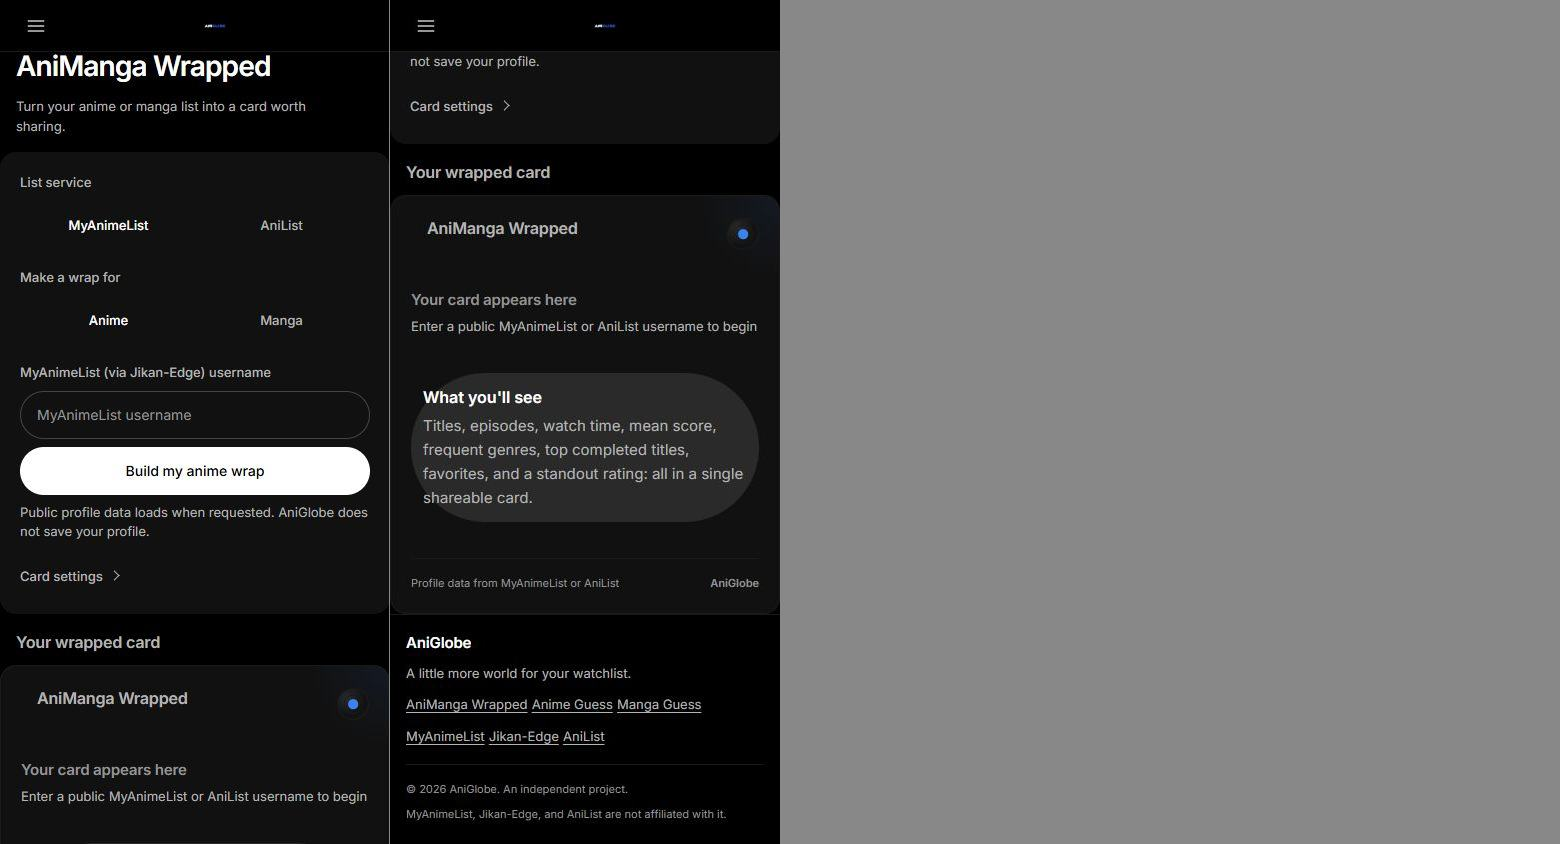
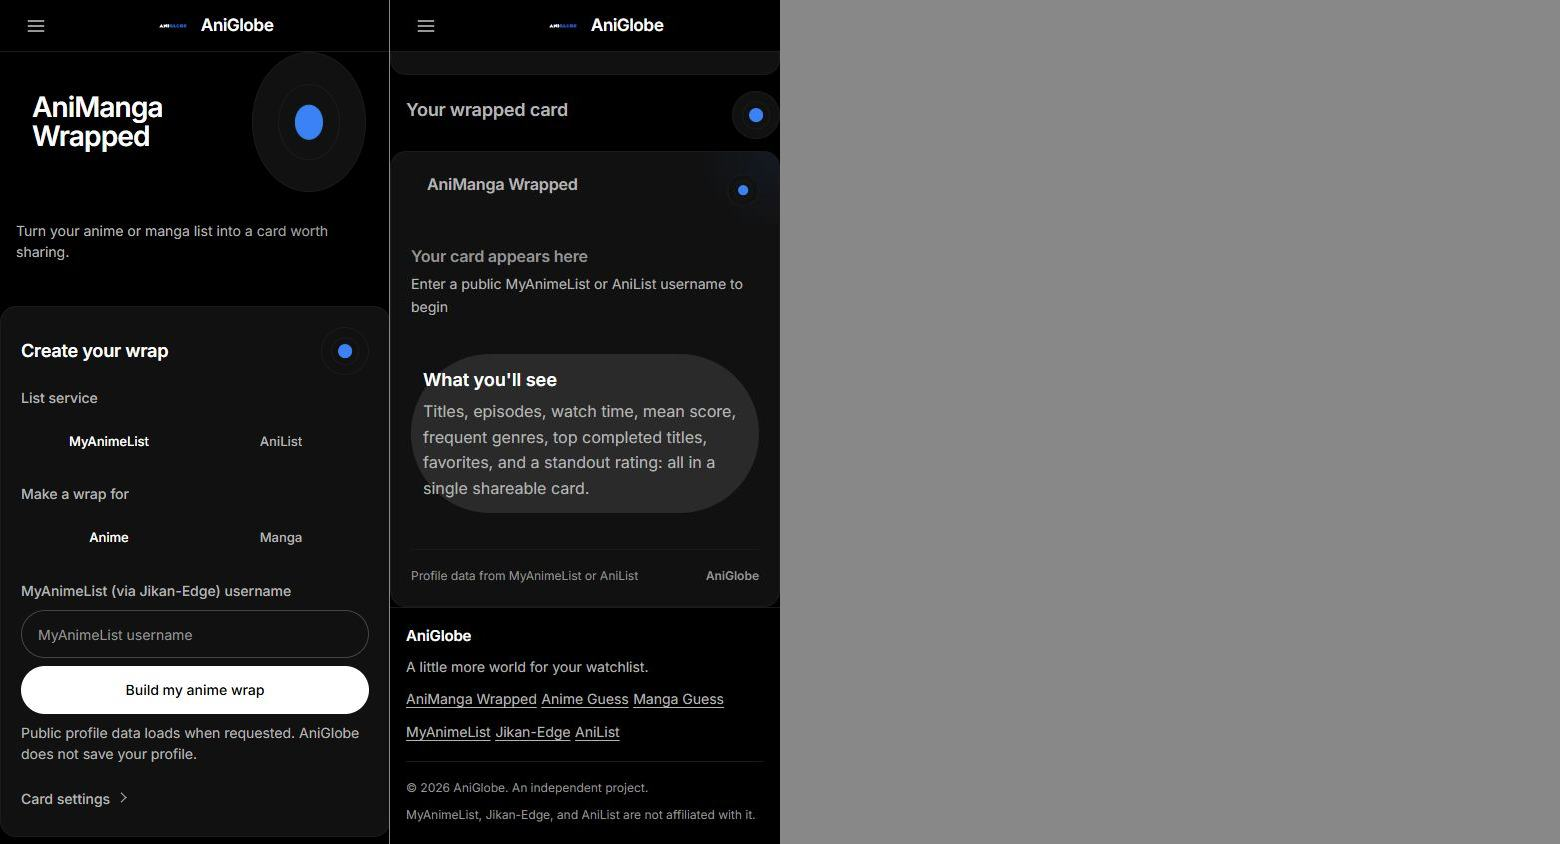
Add hero accent field, panel borders, globe stamp XL

diff --git a/src/tools/card.js b/src/tools/card.js
@@ -265,7 +265,8 @@ export default {
           { class: 'tool-head wrapped-heading', style: { marginBottom: 'var(--s6)' } },
           el('div', { class: 'flex items-center justify-between gap-3', style: { marginBottom: 'var(--s3)', paddingInline: 'var(--s4)' } }, [
             el('h1', { class: 'slide-in-left', style: { paddingLeft: 'var(--s2)' } }, 'AniManga Wrapped'),
-            heroStamp
+            heroStamp,
+            el('div', { class: 'hero-accent' })
           ]),
           el('p', { class: 'fade-in-up' }, 'Turn your anime or manga list into a card worth sharing.')
         ),
@@ -279,7 +280,10 @@ export default {
         el(
           'aside',
           { class: 'wrapped-preview fade-in-up', 'aria-labelledby': 'wrapped-preview-title', style: { animationDelay: '120ms' } },
-          el('h2', { id: 'wrapped-preview-title' }, 'Your wrapped card'),
+          el('div', { class: 'flex items-center justify-between gap-2', style: { marginBottom: 'var(--s3)' } },
+            el('h2', { id: 'wrapped-preview-title', class: 'slide-in-left', style: { fontSize: 'var(--fs-section)', fontWeight: 600, letterSpacing: '-0.01em' } }, 'Your wrapped card'),
+            globeStamp('md')
+          ),
           stage,
           actions
         )

diff --git a/assets/styles.css b/assets/styles.css
@@ -336,7 +336,8 @@ a { color: inherit; text-decoration: none; }
   border-radius: var(--radius-card);
   padding: var(--s5);
   min-width: 0;
-  border: none;
+  border: 1px solid var(--border);
+  position: relative;
 }
 
 .well {
@@ -1035,6 +1036,21 @@ input:focus-visible, select:focus-visible, textarea:focus-visible {
 .text-right { text-align: right; }
 .mt-1 { margin-top: var(--s1); } .mt-2 { margin-top: var(--s2); } .mt-3 { margin-top: var(--s3); } .mt-4 { margin-top: var(--s4); } .mt-5 { margin-top: var(--s5); }
 .mb-1 { margin-bottom: var(--s1); } .mb-2 { margin-bottom: var(--s2); } .mb-3 { margin-bottom: var(--s3); } .mb-4 { margin-bottom: var(--s4); } .mb-5 { margin-bottom: var(--s5); }
+
+/* Hero accent field — fills the void with flat colour */
+.hero-accent {
+  position: absolute;
+  top: var(--s4);
+  right: var(--s4);
+  width: 320px;
+  height: 320px;
+  background: var(--accent);
+  border-radius: 50%;
+  opacity: 0.05;
+  filter: blur(48px);
+  pointer-events: none;
+  z-index: -1;
+}
 
 /* ========================================================================
    HERO MOTION — globe entrance animation
